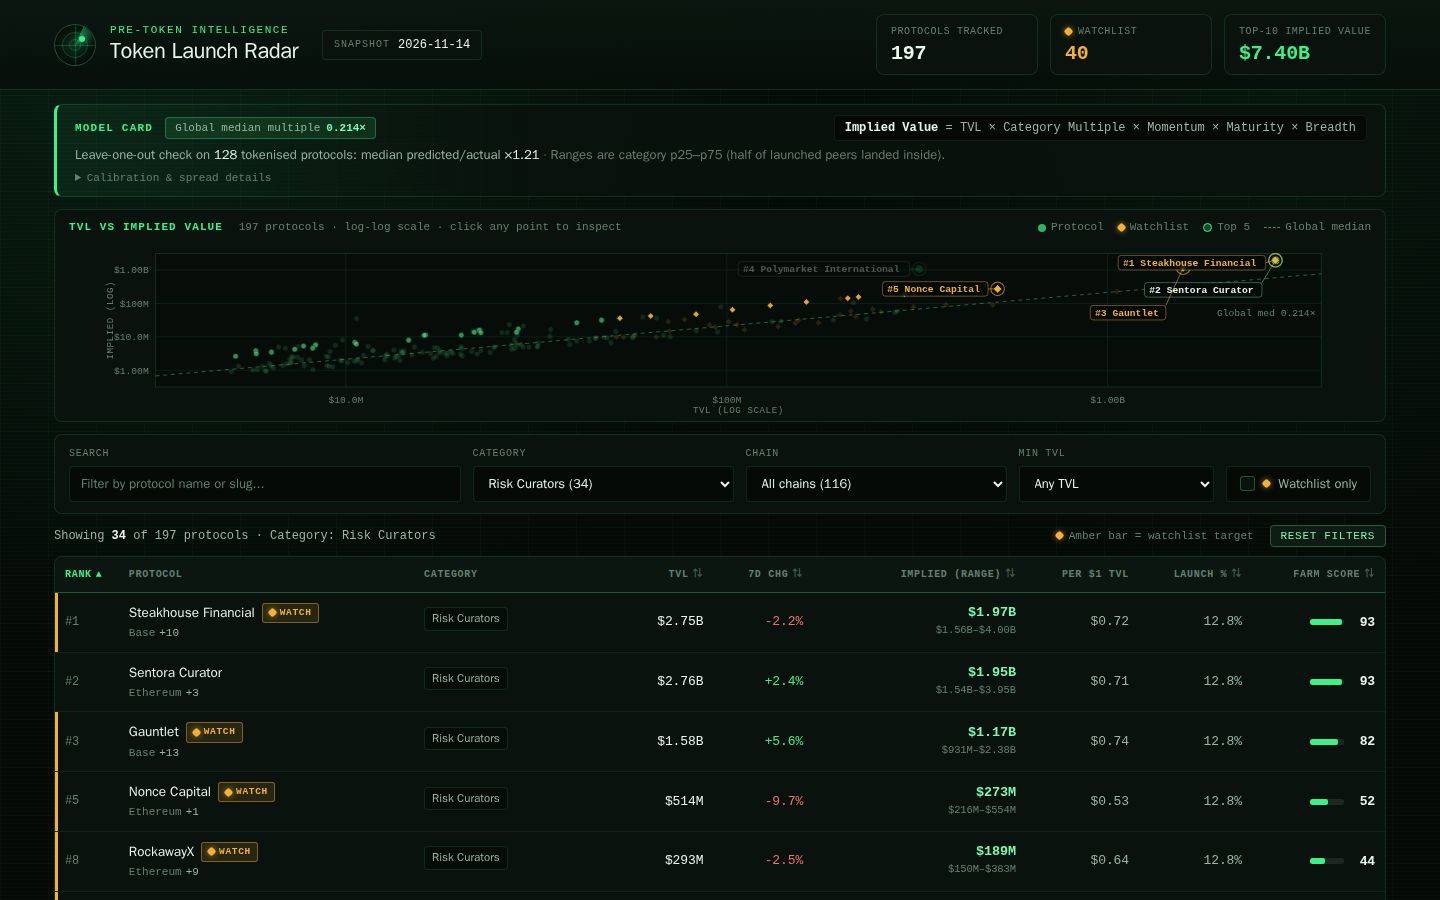
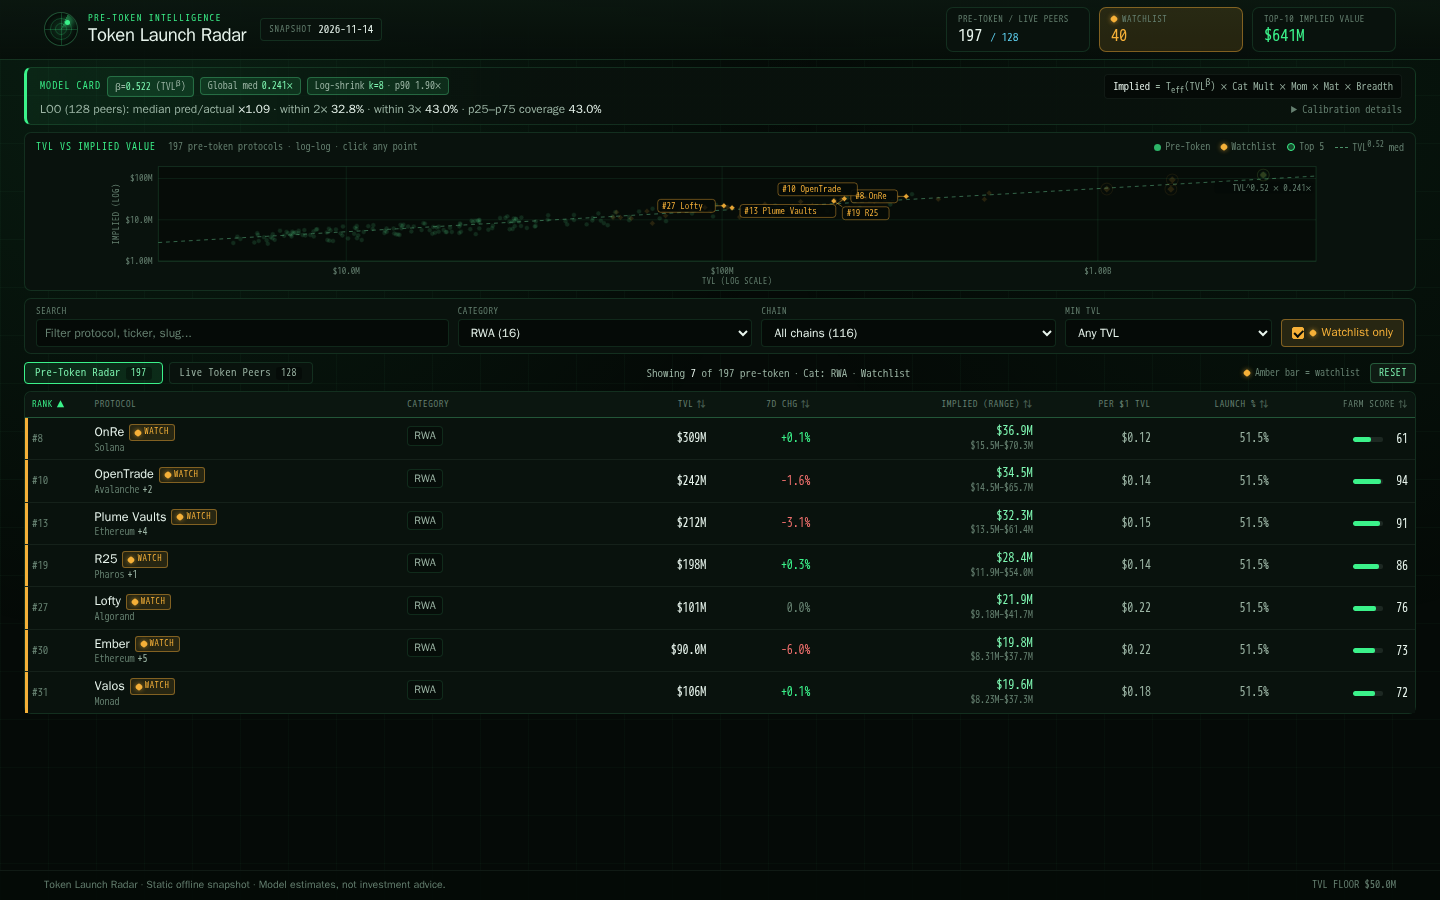
screenshots & tools: non-overlapping RWA+watchlist filter, automated DOM layout checks, v3 screenshots, and README

diff --git a/README.md b/README.md
@@ -4,17 +4,17 @@
 [![rank](https://make.fun/badge/token-radar-01/sinc-sinc/token-launch-radar/rank.svg)](https://make.fun/bounty/token-radar-01/leaderboard?utm_source=github&utm_medium=readme&utm_campaign=token-radar-01)
 [![reward](https://make.fun/badge/token-radar-01/sinc-sinc/token-launch-radar/reward.svg)](https://make.fun/bounty/token-radar-01/leaderboard?utm_source=github&utm_medium=readme&utm_campaign=token-radar-01)
 
-Token Launch Radar ranks pre-token DeFi protocols from a sealed on-chain snapshot and ships a static offline dashboard (with model card, TVL-vs-implied-value scatter plot, category/chain filters, and protocol-specific farming plans).
+Token Launch Radar ranks pre-token DeFi protocols from a sealed on-chain snapshot and ships a static offline dashboard (model card, log-log TVL scatter plot, separated Pre-Token Radar / Live Token Peers views, category/chain/watchlist filters, category peer comparison tables, and protocol-specific farming plans).
 
-## Model (v2)
+## Model (v3)
 
 All valuation parameters are derived directly from the sealed snapshot:
 
-- **Category multiples:** median market-cap-to-TVL ratio of tokenised peers in each category, shrunk toward the global peer median (`0.2138×` across 128 tokenised peers) with `(n + 5)` weighting and capped at the data-derived 90th percentile of all peer multiples (`2.9555×`, no flat upper clamp), then adjusted for 7-day TVL momentum, listing maturity, and multi-chain breadth.
-- **Implied valuation ranges:** every protocol receives an `[implied_low_usd, implied_high_usd]` band computed from shrunk category `p25–p75` peer multiples, with a global-quartile widening fallback (`0.0468×–1.0467×`) whenever a category's interquartile spread is narrower than `1.25×`.
-- **Leave-one-out validation:** evaluated across all **128** tokenised protocols with TVL ≥ $5M (recomputing global median, `p90` cap, and category median without the held-out protocol), achieving a median predicted/actual ratio of **1.21** (`1.2062`), with **21.1%** within `2×` and **32.8%** within `3×`.
-- **Launch prior & farm score:** each category carries a **launch prior** (the share of snapshot protocols with TVL ≥ $5M in that category that already have a token), which feeds a **1–100 farm score** index computed as `implied_value_usd × launch_prior ÷ plan_capital_usd`, log-scaled across the board.
-- **Actionable farm plans:** each protocol gets a 5-step farming plan whose step 1 states the TVL-tiered capital budget, expected duration, and weekly time commitment (e.g., `Budget: $2,500 over ~16 weeks, ~15 min/week.`).
+- **TVL power-law scaling:** global OLS on $\log_{10}(\text{mcap}) \sim \log_{10}(\text{TVL})$ across all **128** tokenised peers estimates elasticity $\hat{\beta} = 0.5223$ (clamped to `[0.35, 1.0]`) around the geometric-mean TVL pivot $\bar{T} = \$49.1\text{M}$, defining effective TVL $T_{\text{eff}}(T) = \bar{T}\cdot(T/\bar{T})^{\hat{\beta}}$.
+- **Pre-Winsorized log-space category multiples:** normalized peer ratios $r_i = \text{mcap}_i / T_{\text{eff}}(T_i)$ are upper-Winsorized at the data-derived 90th percentile (`1.9010×`) *before* computing category quantiles (`p50`, `p25`, `p75`), then shrunk geometrically in log space (`k = 8`) toward global benchmarks (`0.2410×` median, `0.0697×–0.9209×` IQR).
+- **Recentered adjustments:** implied values multiply `T_eff × category multiple` by recentered 7-day TVL momentum (`×0.15` weight), listing-age maturity (`0.90–1.08`, `0.99` when unlisted), and multi-chain breadth (`0.98 / 1.00 / 1.02`).
+- **Leave-one-out validation:** evaluated across all **128** tokenised peers with TVL ≥ $5M (recomputing $\hat{\beta}$, $\bar{T}$, global quantiles, `p90` cap, and shrunk category quantiles strictly without each held-out protocol), achieving median predicted/actual **1.09×** (`1.0862`), **32.8%** within `2×`, **43.0%** within `3×`, **43.0%** `p25–p75` IQR coverage, `RMSLE(log10) = 0.9155`, and `MAE(log10) = 0.6919`.
+- **Separated token views & farm plans:** the dashboard separates **Pre-Token Radar (197)** from **Live Token Peers (128)**, shows same-category live peers under each protocol's valuation breakdown, and pairs every candidate with a 5-step TVL-tiered farming plan.
 
 ## Run it
 
